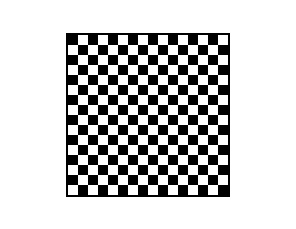
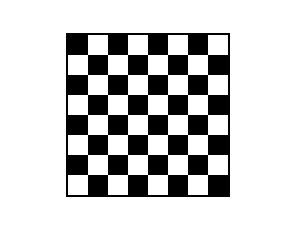
some mistakes are modified ...

Changed region(s): [[0.2128, 0.1528, 0.7905, 0.8559]]

diff --git a/assignment1/HW4-1-1_chess/HW4-1_chessboard.py b/assignment1/HW4-1-1_chess/HW4-1_chessboard.py
@@ -8,15 +8,15 @@ my_image [33:197 , 66 :68] = 0
 my_image [33:197 , 228:230] = 0
 my_image [195:197, 66 :230] = 0    
 k = 0
-for i in range (35, 195, 10):
+for i in range (35, 195, 20):
     
     w = 0
-    for j in range (68, 228 , 10):
+    for j in range (68, 228 , 20):
 
         if  (k + w ) % 2 == 0 :
-            my_image [i : i + 10 , j : j + 10] = 0
+            my_image [i : i + 20 , j : j + 20] = 0
         else :
-            my_image [i : i + 10 , j : j + 10] = 255
+            my_image [i : i + 20 , j : j + 20] = 255
         w += 1
     k += 1
 

diff --git a/assignment1/HW4-1-6_deathsymbol/HW4-1-6_death.py b/assignment1/HW4-1-6_deathsymbol/HW4-1-6_death.py
@@ -1,16 +1,16 @@
 import cv2
 
-my_image = cv2.imread("assignment1\HW4-1-6_deathsymbol\whiteboard.jpg")
+my_image = cv2.imread("assignment1\HW4-1-6_deathsymbol/first.jpg")
 print (my_image.shape)
 
 
 
-for i in range (30):
-    my_image [ i , 30 - i  : 30 + 10 - i ] = 0
+for i in range (100):
+    my_image [ i , 100 - i  : 100 + 40 - i ] = 0
 
 
-for i in range (10):
-    my_image [30 + i , 0 : 10 - i] = 0
+for i in range (40):
+    my_image [100 + i , 0 : 40 - i] = 0
         
 
      

diff --git a/assignment1/HW4-1-2_invertcolor/readme.md b/assignment1/HW4-1-2_invertcolor/readme.md
@@ -2,10 +2,10 @@
 
 In this problem, we inverted the white and black color of 2 pictures in this folder like bellow:
 
-![Alt text](first_inverted.JPG)
+![Alt text](first_inverted.jpg)
 
 
-![Alt text](second_inverted.JPG)
+![Alt text](second_inverted.jpg)
 
 You can run the following code to enjoy it . 
 

diff --git a/assignment1/HW4-1-1_chess/readme.md b/assignment1/HW4-1-1_chess/readme.md
@@ -2,7 +2,7 @@
 
 In this problem, in a white board existed in the folder, a chess board is designed like bellow:
 
-![Alt text](chess.JPG)
+![Alt text](chess.jpg)
 
 You can run the following code to enjoy it . 
 

diff --git a/assignment1/HW4-1-3_rotatepic/readme.md b/assignment1/HW4-1-3_rotatepic/readme.md
@@ -2,7 +2,7 @@
 
 In this problem, we rotate picture in this folder like bellow:
 
-![Alt text](3rotated.JPG)
+![Alt text](3rotated.jpg)
 
 
 

diff --git a/assignment1/HW4-1-5_gradiant/readme.md b/assignment1/HW4-1-5_gradiant/readme.md
@@ -2,7 +2,7 @@
 
 In this problem, we generate a gradiant picture like bellow:
 
-![Alt text](gradiant.JPG)
+![Alt text](gradiant.jpg)
 
 
 

diff --git a/assignment1/HW4-1-6_deathsymbol/readme.md b/assignment1/HW4-1-6_deathsymbol/readme.md
@@ -2,7 +2,7 @@
 
 In this problem, we add a death mark to a white picture
 
-![Alt text](death.JPG)
+![Alt text](death.jpg)
 
 
 

diff --git a/assignment1/HW4-1-4 _char/readme.md b/assignment1/HW4-1-4 _char/readme.md
@@ -2,7 +2,7 @@
 
 In this problem, we generate M char like bellow:
 
-![Alt text](char.JPG)
+![Alt text](char.jpg)
 
 
 
